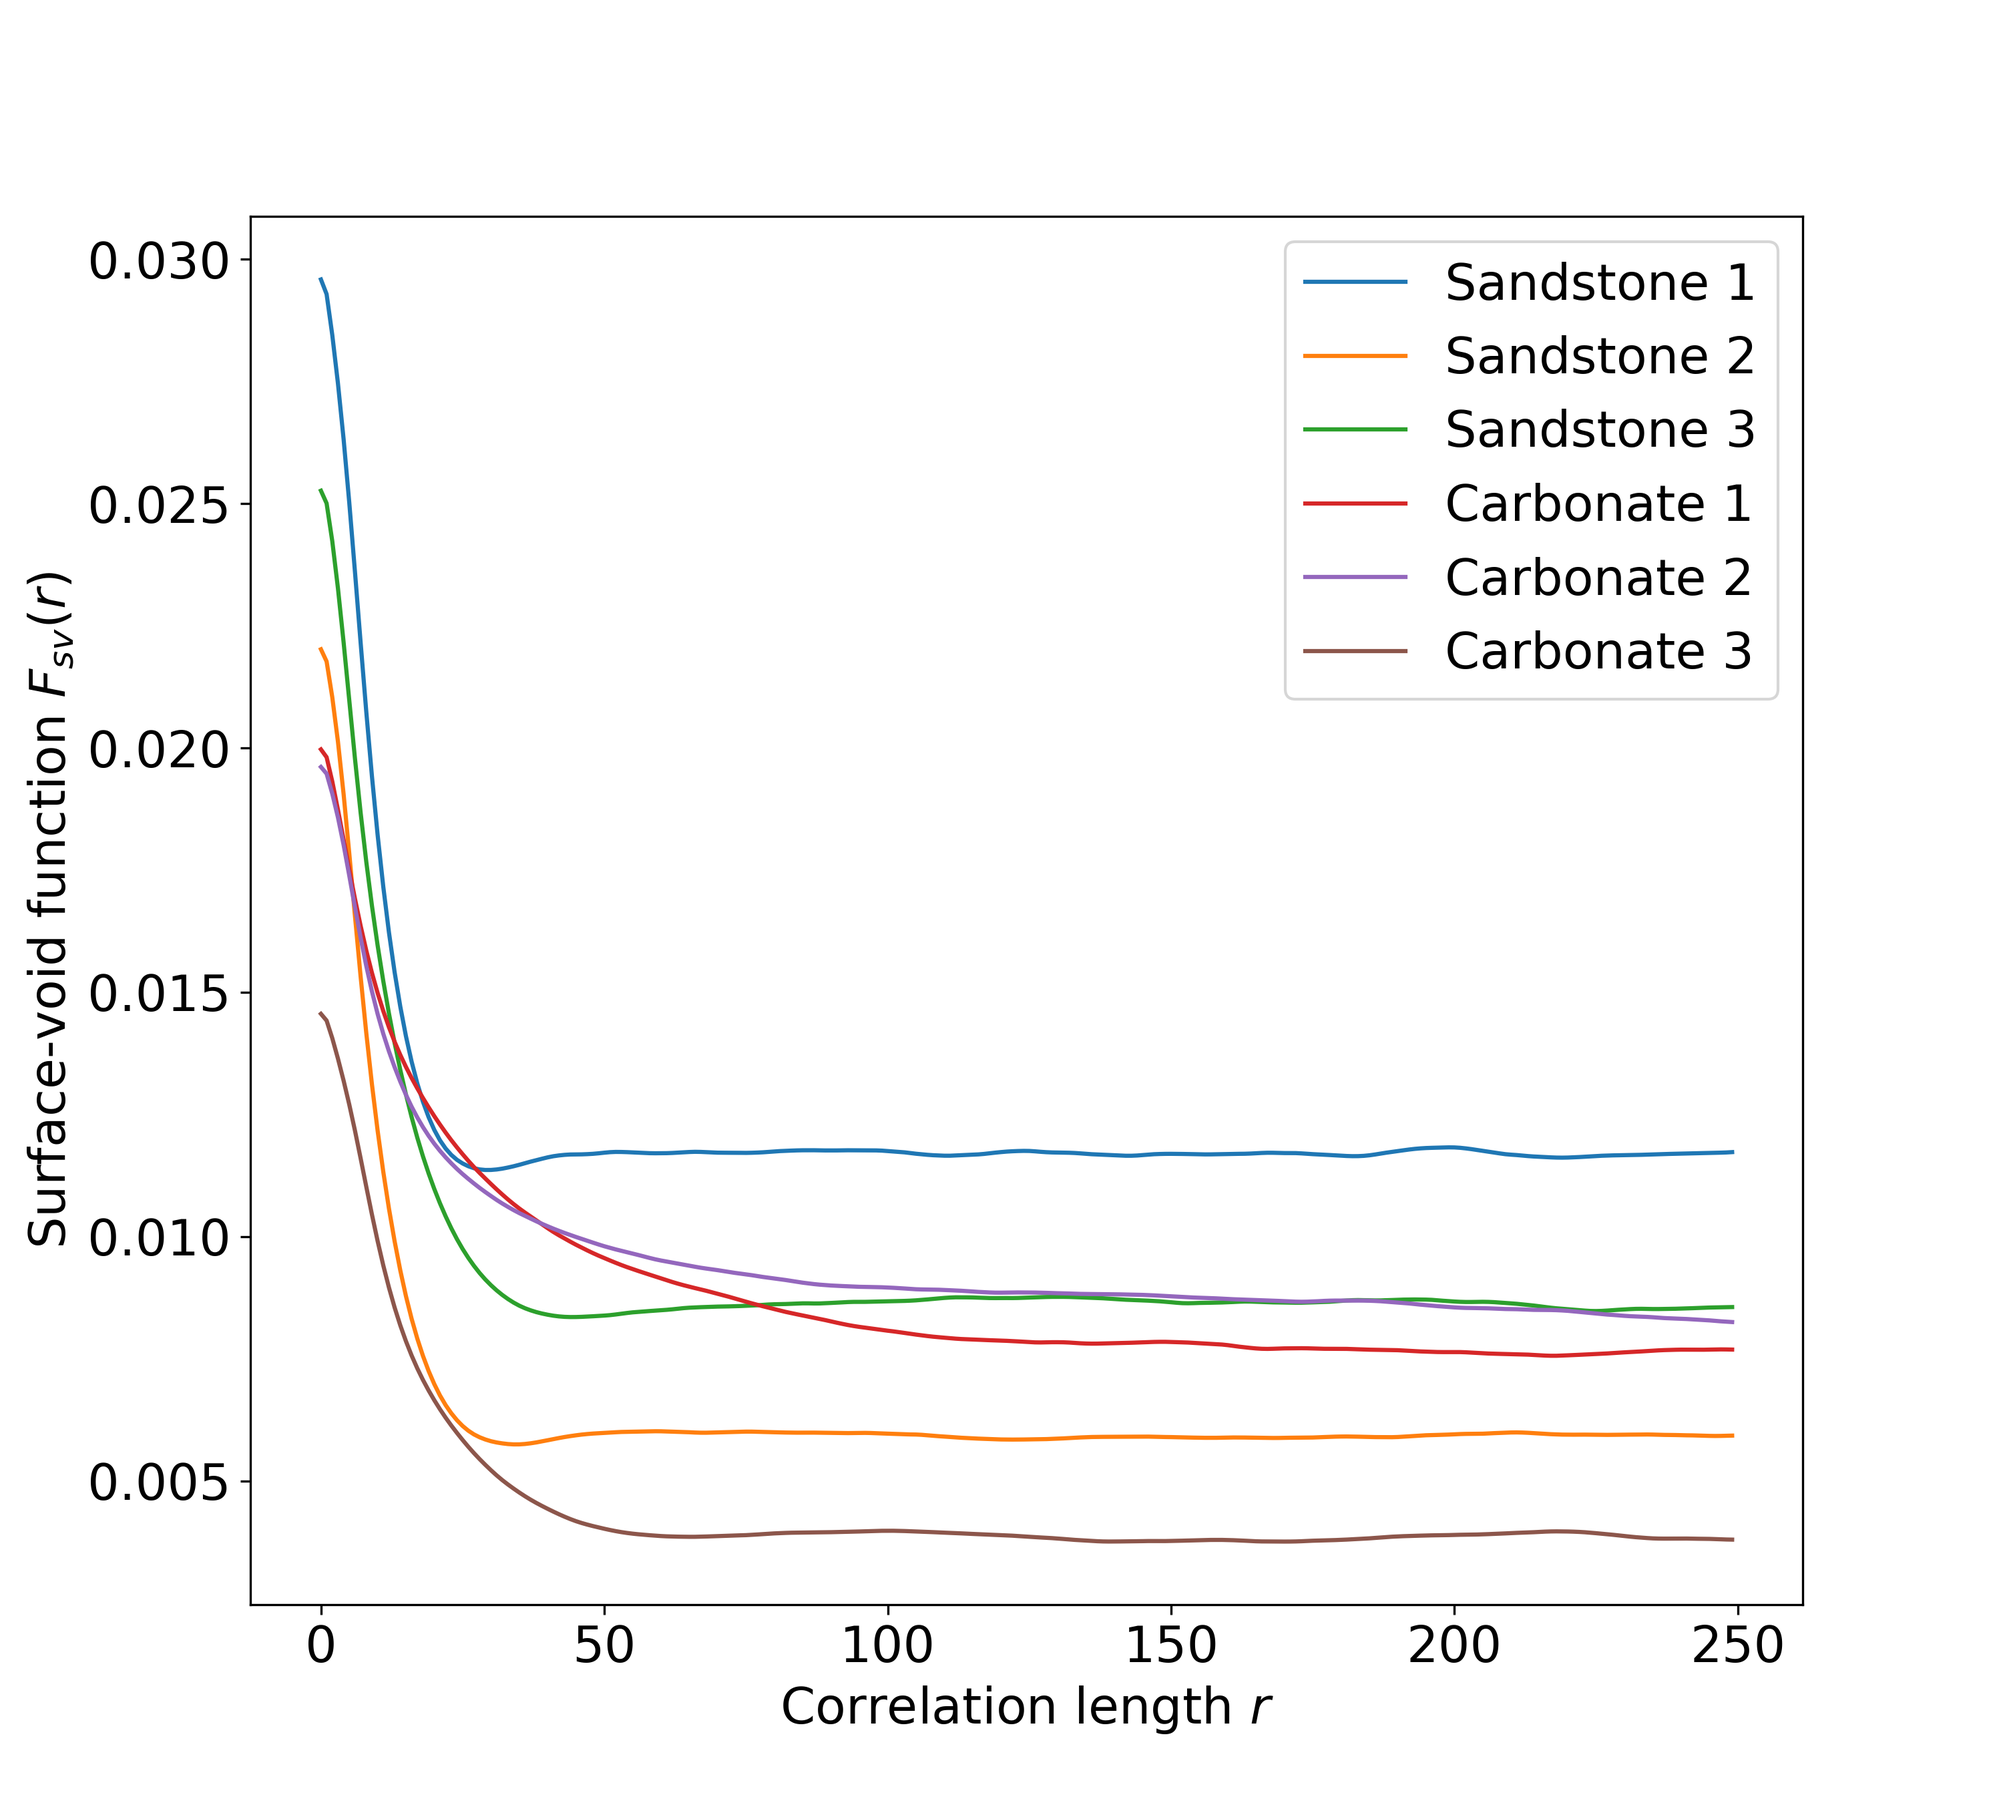
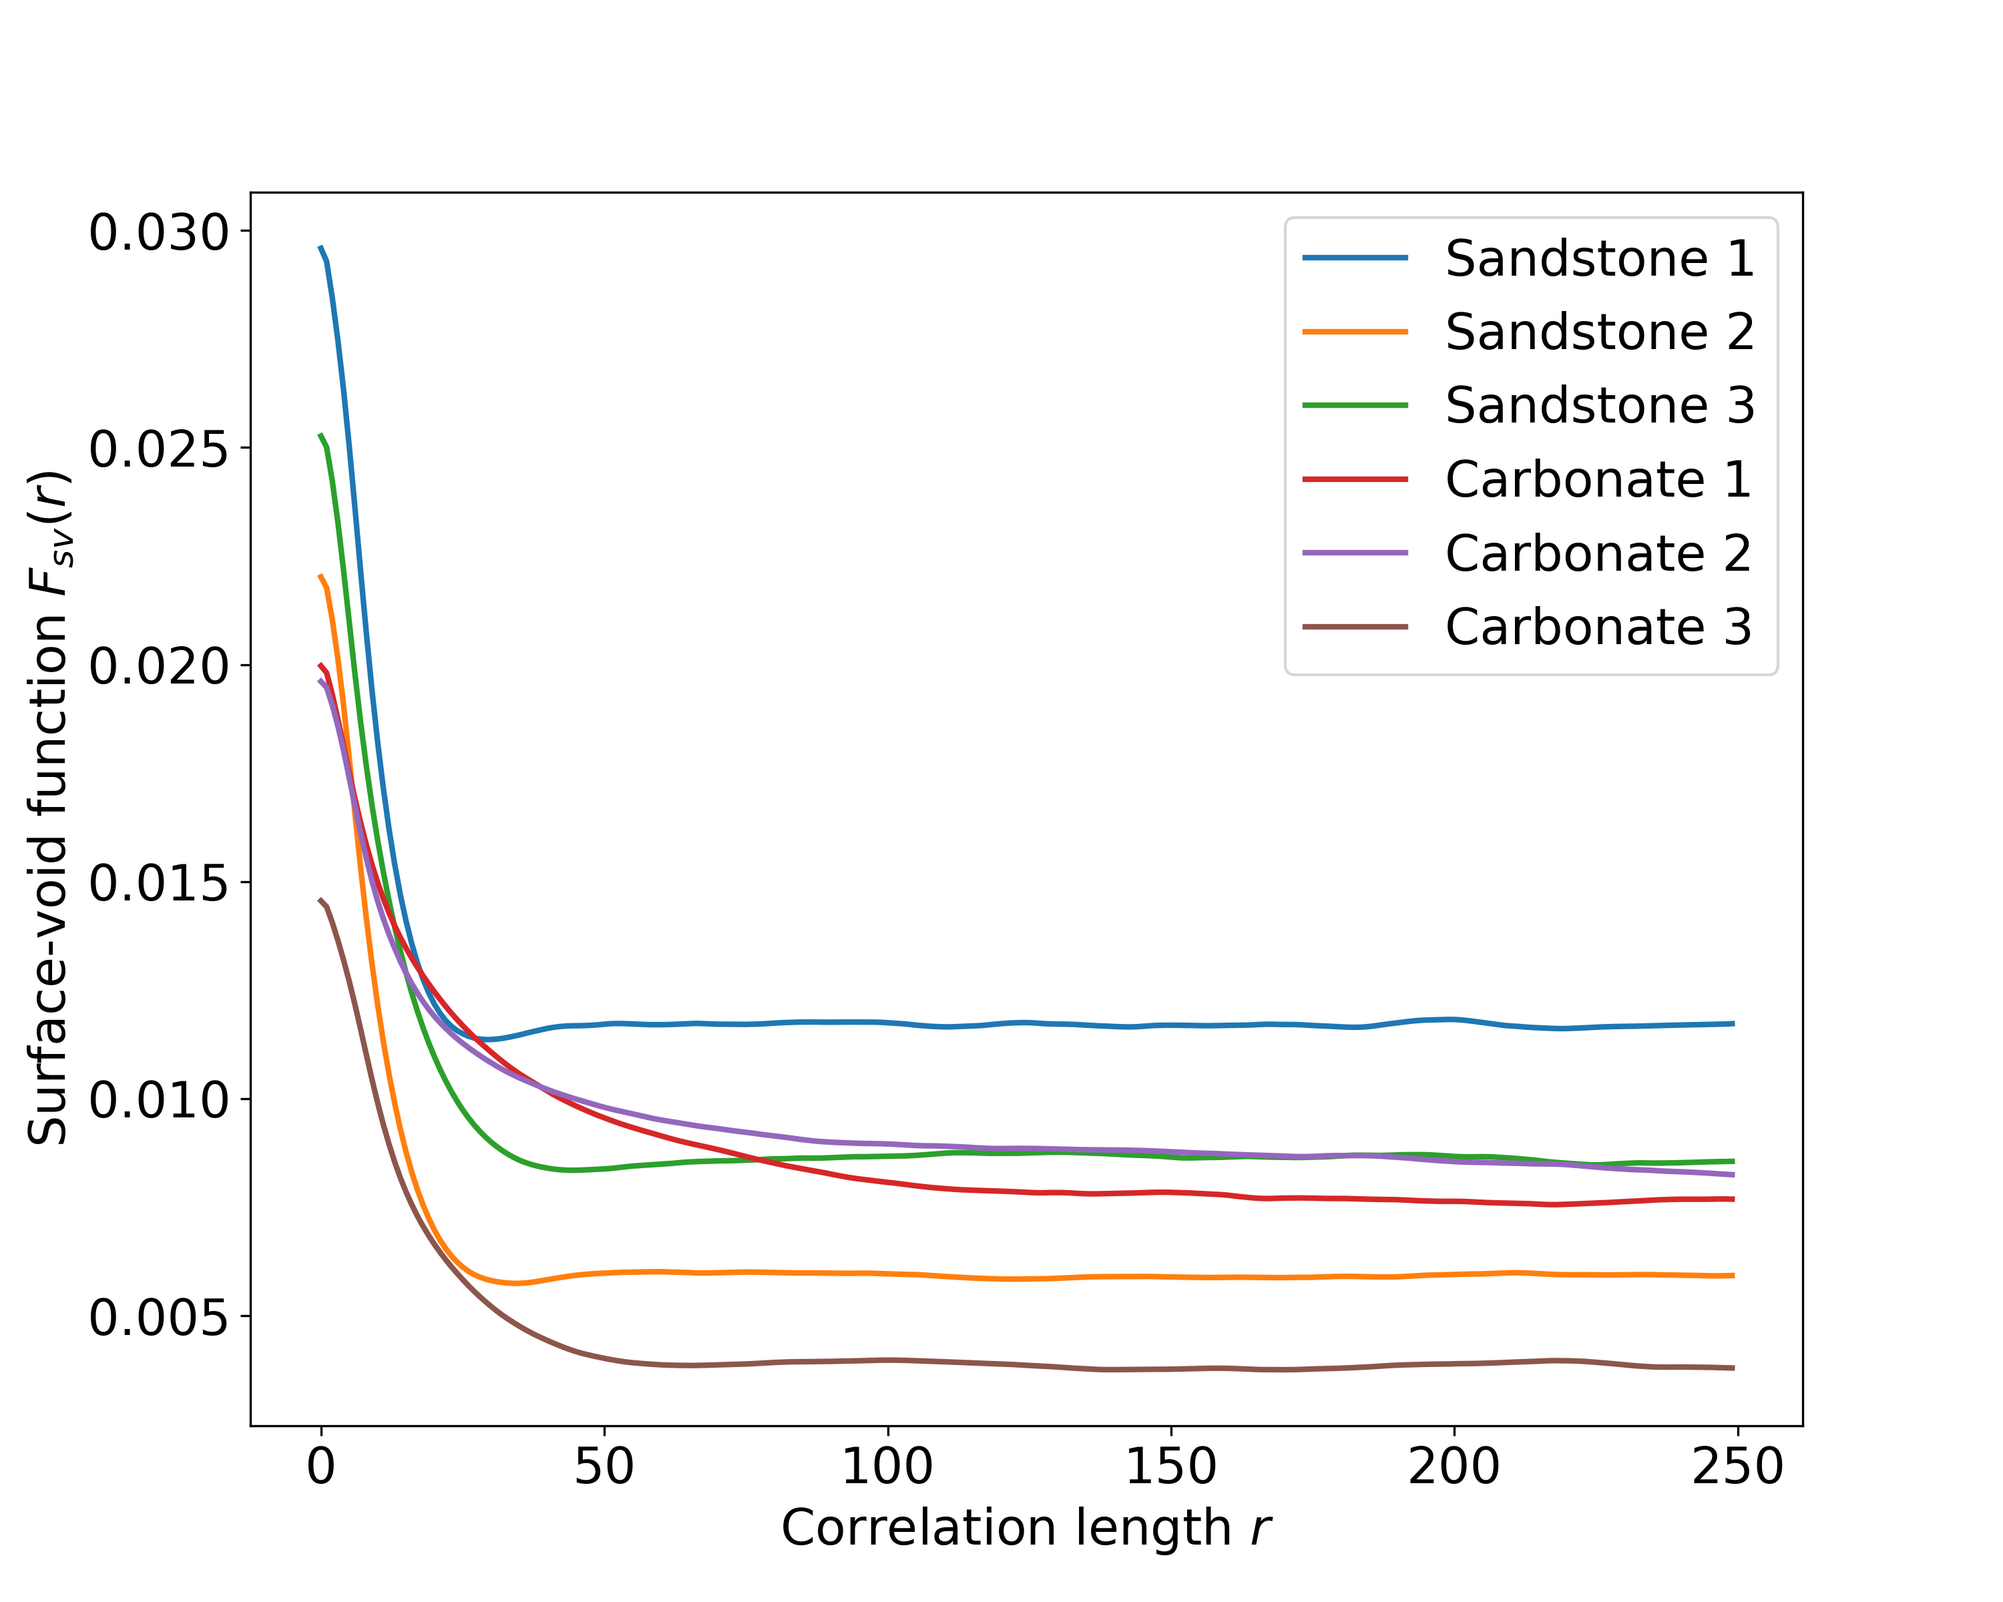
Plots with real samples: change line thickness

diff --git a/scripts&data/plot-real.py b/scripts&data/plot-real.py
@@ -10,15 +10,28 @@ data5479  = np.loadtxt('5479_500x500_seg.dat')
 data5548  = np.loadtxt('5548_500x500_seg.dat')
 data9005  = np.loadtxt('9005-2_500x500_seg.dat')
 
-plt.figure(figsize = (10, 9), dpi = 300)
+plt.figure(figsize = (10, 8), dpi = 300)
 plt.rc('font', size = 18)
-plt.plot(data15581[:,0])
-plt.plot(data15588[:,0])
-plt.plot(data15604[:,0])
-plt.plot(data5479[:,0])
-plt.plot(data5548[:,0])
-plt.plot(data9005[:,0])
+plt.plot(data15581[:,0], linewidth = 2.0)
+plt.plot(data15588[:,0], linewidth = 2.0)
+plt.plot(data15604[:,0], linewidth = 2.0)
+plt.plot(data5479[:,0],  linewidth = 2.0)
+plt.plot(data5548[:,0],  linewidth = 2.0)
+plt.plot(data9005[:,0],  linewidth = 2.0)
 plt.xlabel('Correlation length $r$')
-plt.ylabel('Surface-void function $F_{ss}(r)$')
+plt.ylabel('Surface-surface function $F_{ss}(r)$')
 plt.legend(['Sandstone 1', 'Sandstone 2', 'Sandstone 3', 'Carbonate 1', 'Carbonate 2', 'Carbonate 3'])
 plt.savefig('../images/KIK-ss.png')
+
+plt.figure(figsize = (10, 8), dpi = 300)
+plt.rc('font', size = 18)
+plt.plot(data15581[:,1], linewidth = 2.0)
+plt.plot(data15588[:,1], linewidth = 2.0)
+plt.plot(data15604[:,1], linewidth = 2.0)
+plt.plot(data5479[:,1],  linewidth = 2.0)
+plt.plot(data5548[:,1],  linewidth = 2.0)
+plt.plot(data9005[:,1],  linewidth = 2.0)
+plt.xlabel('Correlation length $r$')
+plt.ylabel('Surface-void function $F_{sv}(r)$')
+plt.legend(['Sandstone 1', 'Sandstone 2', 'Sandstone 3', 'Carbonate 1', 'Carbonate 2', 'Carbonate 3'])
+plt.savefig('../images/KIK-sv.png')
